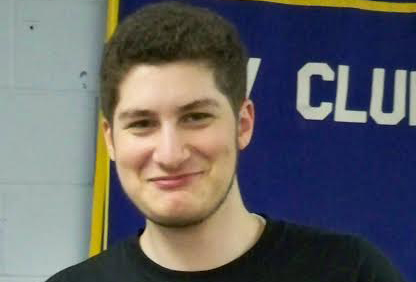
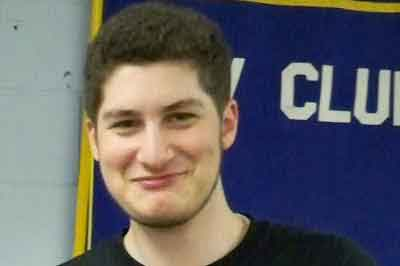
update photos and css

diff --git a/home.html b/home.html
@@ -90,7 +90,7 @@
         </div>
         <div class="item">
           <div class="image img-responsive">
-            <img class="img-responsive" src="img/screenshots/comingsoon.png">
+            <img class="img-responsive" src="img/screenshots/bookbazaar.png">
           </div>
           <h3>Penn Mobile App</h3>
           <p>New to Labs is our forthcoming Mobile App which will be a compilation of several of our website tools along with a host of applications to benefit student life on campus.</p>
@@ -161,7 +161,7 @@
         </div>
 <div class="item">
           <div class="image">
-            <img class="img-responsive"src="img/bios/viv.jpg">
+            <img class="img-responsive"src="img/bios/viv.png">
           </div>
           <h3>Vivian Huang</h3>
           <p>Vivian is a junior in Digital Media Design. She sometimes devs Android. She also likes bubble tea, books, and Texas.</p>

diff --git a/css/style.css b/css/style.css
@@ -152,8 +152,12 @@ p, label, input, button, textarea{
 }
 
 .image img{
-  height: 200px;
+  height: 210px;
   border: 1px solid #EDEDED;
+}
+
+#team .image img {
+  height: 220px;
 }
 
 .container {
